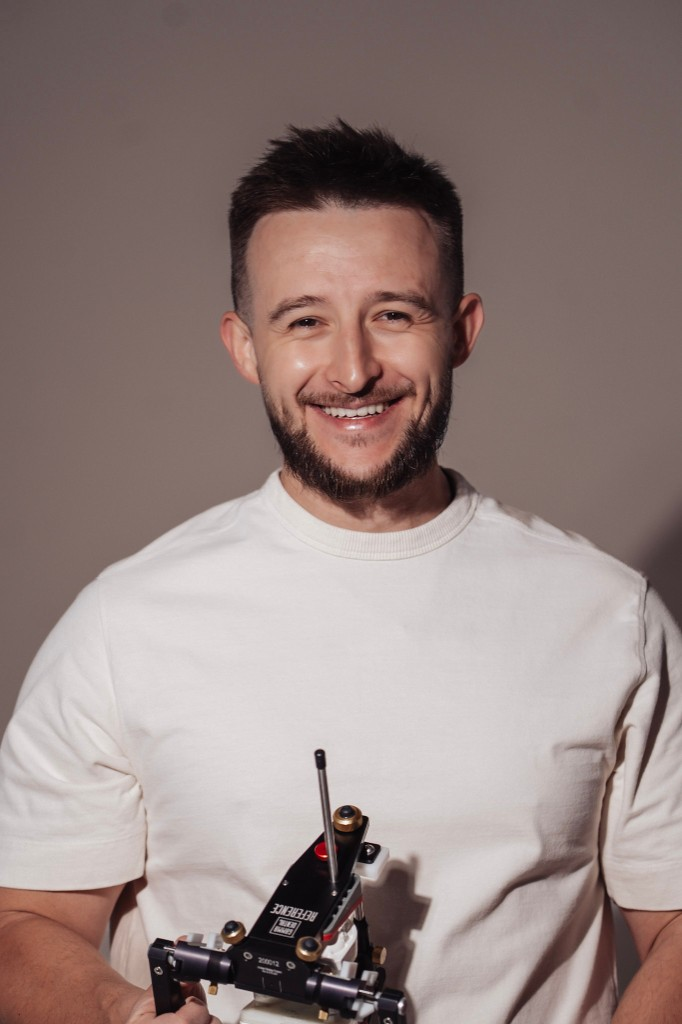
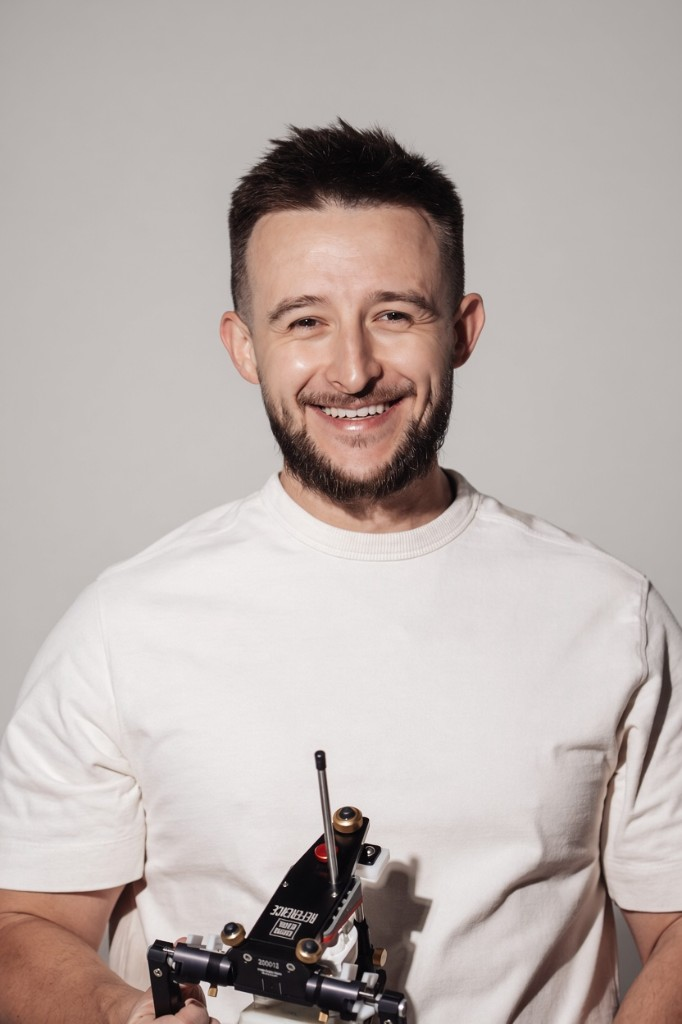
Zdjęcie kondylografii w diagnostyce, nowe zdjęcia zespołu (neutralne tło), przebudowa sekcji Wybielanie
- Diagnostyka (Duża diagnostyka): zdjęcie gabinetu zastąpione zdjęciem z wykonywania kondylografii (kadr pionowy)
- Zespół: nowe portrety Klovanets, Andrei Blaga i Lila Bilan na neutralnym tle
- Wybielanie: podnagłówek "Gabinetowe" + opisy (BYOND / bankietowe BlancOne Click / ICON)

diff --git a/index.html b/index.html
@@ -784,10 +784,10 @@
                       <span class="process__tier-name">Duża diagnostyka</span>
                       <span class="process__tier-meta">14 650 zł · 5 h</span>
                     </div>
-                    <div class="process__tier-photo" aria-hidden="true">
+                    <div class="process__tier-photo process__tier-photo--portrait" aria-hidden="true">
                       <img
-                        src="images/gabinet-mikroskop.jpg"
-                        alt="Gabinet z mikroskopem"
+                        src="images/kondylografia.jpg"
+                        alt="Wykonanie kondylografii u pacjenta"
                         loading="lazy"
                       />
                     </div>
@@ -1070,10 +1070,11 @@
 
           <div class="panel" data-panel="wyb">
             <ul class="price-list">
-              <li><span>Gabinetowe wybielanie lampą BYOND (4 sesje · 1 h) + nakładki nocne</span><span class="dots"></span><span class="price">2 500 zł</span></li>
+              <li class="price-list__head">Gabinetowe</li>
+              <li><span>Wybielanie lampą BYOND (lub połączone z nakładkowym nocnym)</span><span class="dots"></span><span class="price">2 500 zł</span></li>
+              <li><span>Wybielanie „bankietowe” — odświeżenie koloru BlancOne Click (10 min)</span><span class="dots"></span><span class="price">350 zł</span></li>
+              <li><span>Metoda ICON — na plamy różnego pochodzenia</span><span class="dots"></span><span class="price">500 zł / ząb</span></li>
               <li><span>Higienizacja + odświeżenie koloru</span><span class="dots"></span><span class="price">880 zł</span></li>
-              <li><span>Odświeżenie koloru „bankietowe” BlancOne Klik</span><span class="dots"></span><span class="price">350 zł</span></li>
-              <li><span>ICON — wybielanie plam różnego pochodzenia</span><span class="dots"></span><span class="price">500 zł / ząb</span></li>
             </ul>
           </div>
 

diff --git a/styles.css b/styles.css
@@ -1080,7 +1080,6 @@ h2 {
   padding: 0;
   margin: 0;
 }
-
 .price-list li {
   display: flex;
   align-items: baseline;
@@ -1088,6 +1087,20 @@ h2 {
   padding: 18px 0;
   border-bottom: 1px dashed var(--line);
   color: var(--ink);
+}
+.price-list li.price-list__head {
+  display: block;
+  font-family: var(--sans);
+  font-size: 0.72rem;
+  font-weight: 600;
+  letter-spacing: 0.2em;
+  text-transform: uppercase;
+  color: var(--gold);
+  padding: 20px 0 6px;
+  border-bottom: 0;
+}
+.price-list li.price-list__head:first-child {
+  padding-top: 4px;
 }
 .price-list li:last-child {
   border-bottom: 0;
@@ -1999,6 +2012,11 @@ h2 {
   border: 1px solid rgba(255, 255, 255, 0.08);
   aspect-ratio: 16 / 10;
   background: rgba(0, 0, 0, 0.2);
+}
+.process__tier-photo--portrait {
+  aspect-ratio: 3 / 4;
+  width: 36%;
+  max-width: 180px;
 }
 .process__tier-photo img {
   width: 100%;
